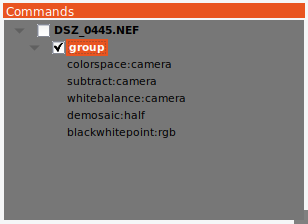
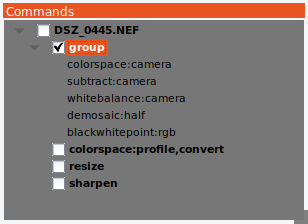
doc update

Changed region(s): [[0.1461, 0.625, 0.7305, 0.875]]

diff --git a/doc/menu.html b/doc/menu.html
@@ -50,6 +50,47 @@ pop-up menu.  A path to exiftool must be present in exif.command in the Properti
 <li><b>Add->(tool):</b> Selecting one of the tools from this menu adds it to the Commands list,
 after the selected tool.  See the sub-topics for more enlightenment on the various image tools.</li><br>
 
+<li><b>Add->Group:</b> A group is a collection of tools, similar to a tool list.  The big difference is that
+a list of tools specified as a group are applied using a copy of the previous tool's image, and only one 
+result image is stored for the group.  Until version 0.9, processing an image in rawproc involved opening 
+the file, then applying a succession of tools in whatever order, and finally saving the resulting image 
+from the  output of the last tool.  Each tool added to the chain contained its own result image, so the 
+tool chain concept is quite a memory hog.  The group tool allows one to specify a list of tools that are 
+used often and apply them in a single tool operation, resulting in a significant reduction in memory use.
+
+<p>Groups can be defined in text files just like tool lists, each tool on a separate line; in fact, the 
+syntax is identical.  A group can also be defined as follows:
+
+<pre>
+group:resize:800;sharpen:1
+</pre>
+
+with the tools separated by semicolons, either in the input.raw.libraw.default property or in an img 
+command line parameter.  Indeed, a rather useful group for input.raw.libraw.default would be:
+
+<pre>
+group:colorspace:camera,assign;subtract:camera;whitebalance:camera;demosaic:ahd;blackwhitepoint:rgb
+</pre>
+
+or in a text file:
+
+<pre>
+colorspace:camera,assign
+subtract:camera
+whitebalance:camera
+demosaic:ahd
+blackwhitepoint:rgb
+</pre>
+
+either which for a raw file would provide a scaled RGB image for further editing.  When a group is
+added to the toolchain, it looks like this in the commands pane:</p>
+
+<p align=left><img src=group-commandlist.png></img></p>
+
+
+
+</li><br>
+
 <li><b>Add->Tool List:</b> Opens a file selector on the directory specified in app.toollistpath (or the 
 current working directory if app.toollistpath is empty) to allow selection of a file containing a list
 of tools to be inserted in the processing chain below the currently selected tool.  The list in the file

diff --git a/doc/tone.html b/doc/tone.html
@@ -1,0 +1,23 @@
+<html><title>Tone</title><link rel="stylesheet" type="text/css" href="rawprocdoc.css"><body>
+
+<h3 id="Tone">Tone</h3>
+<p>Applies the selected tone curve to the image.  This is just a somewhat random selection of functions, mainly for messing
+with.  I still use a manually-constructed per-image curve for my tone transforms, but some of these hold promise if used in 
+the right place.</p>
+<p align=center><img src=tone.png></img></p>
+<p>
+All of the functions are normalized to work on 0.0-1.0 encoded floating point images.
+<ul>
+<li>gamma: The same function as in the original gamma tool, which will eventually be removed.  Default: 1.0, or no-change.</li>
+<li>reinhart: Applies the simple Reinhart function, val / (1-val), to either the individual channels, or as a computed 
+change to the luminance of each pixel.  Default: channel</li>
+<li>log2: An attempt at a normalized log2 curve. For 0.9, it is disabled.</li>
+<li>loggamma: The HEVC version of the ARIB STD-B67 algorithm, as defined in https://en.wikipedia.org/wiki/Hybrid_Log-Gamma</li>
+<li>filmic: The filmic algorithm is the original one, attributed to HP Duiker, copied from John Hable's blog: R(x) = pow(x(6.2x+.5))/(x(6.2x+1.7)+0.06)</li>
+</ul>
+</p>
+
+<p><b>Properties:</b> See tool.tone.* in <a href=confparams.html#tool.tone>Configuration Properties</a></p>
+
+
+</body></html>

diff --git a/doc/confparams.html b/doc/confparams.html
@@ -117,7 +117,7 @@
 <li><a name="tool.shadow"><b>tool.shadow.level</b>:  The initial (and reset button) value of the shadow tool, 0=no change.  Default=0</li>
 <li><a name="tool.shadow"><b>tool.shadow.threshold</b>:  The initial (and reset button) value of the shadow curve threshold.  Default=64</li>
 <li><a name="tool.sharpen"><b>tool.sharpen.initialvalue</b>:  The initial (and reset button) value of the sharpen tool, 0=no change.  Default=0</li>
-<li><a name="tool.tone"><b>tool.tone.initialvalue</b>:  The initial (and reset button) value of the tone tool, 1.0=no change (linear).  Default=gamma,1.0</li>
+<li><a name="tool.tone"><b>tool.tone.initialvalue</b>:  The initial value of the tone tool, 1.0=no change (linear).  Default=gamma,1.0</li>
 <li><a name="tool.whitebalance"><b>tool.whitebalance.digits</b>:  (float), number of fractional digits.  Default=3</li>
 <li><a name="tool.whitebalance"><b>tool.whitebalance.increment</b>:  (float), maximum multiplier value.  Default=0.001</li>
 <li><a name="tool.whitebalance"><b>tool.whitebalance.max</b>:  (float), maximum multiplier value.  Default=3.0</li>

diff --git a/src/rawprocFrm.cpp b/src/rawprocFrm.cpp
@@ -1540,7 +1540,7 @@ void rawprocFrm::MnuTone(wxCommandEvent& event)
 	if (commandtree->IsEmpty()) return;
 	SetStatusText("");
 	try {
-		//parm tool.tone.initialvalue: The initial (and reset button) value of the tone tool, 1.0=no change (linear).  Default=gamma,1.0
+		//parm tool.tone.initialvalue: The initial value of the tone tool, 1.0=no change (linear).  Default=gamma,1.0
 		wxString val = wxString(myConfig::getConfig().getValueOrDefault("tool.tone.initialvalue","gamma,1.0"));
 		PicProcessorTone *p = new PicProcessorTone("tone",val, commandtree, pic);
 		p->createPanel(parambook);
